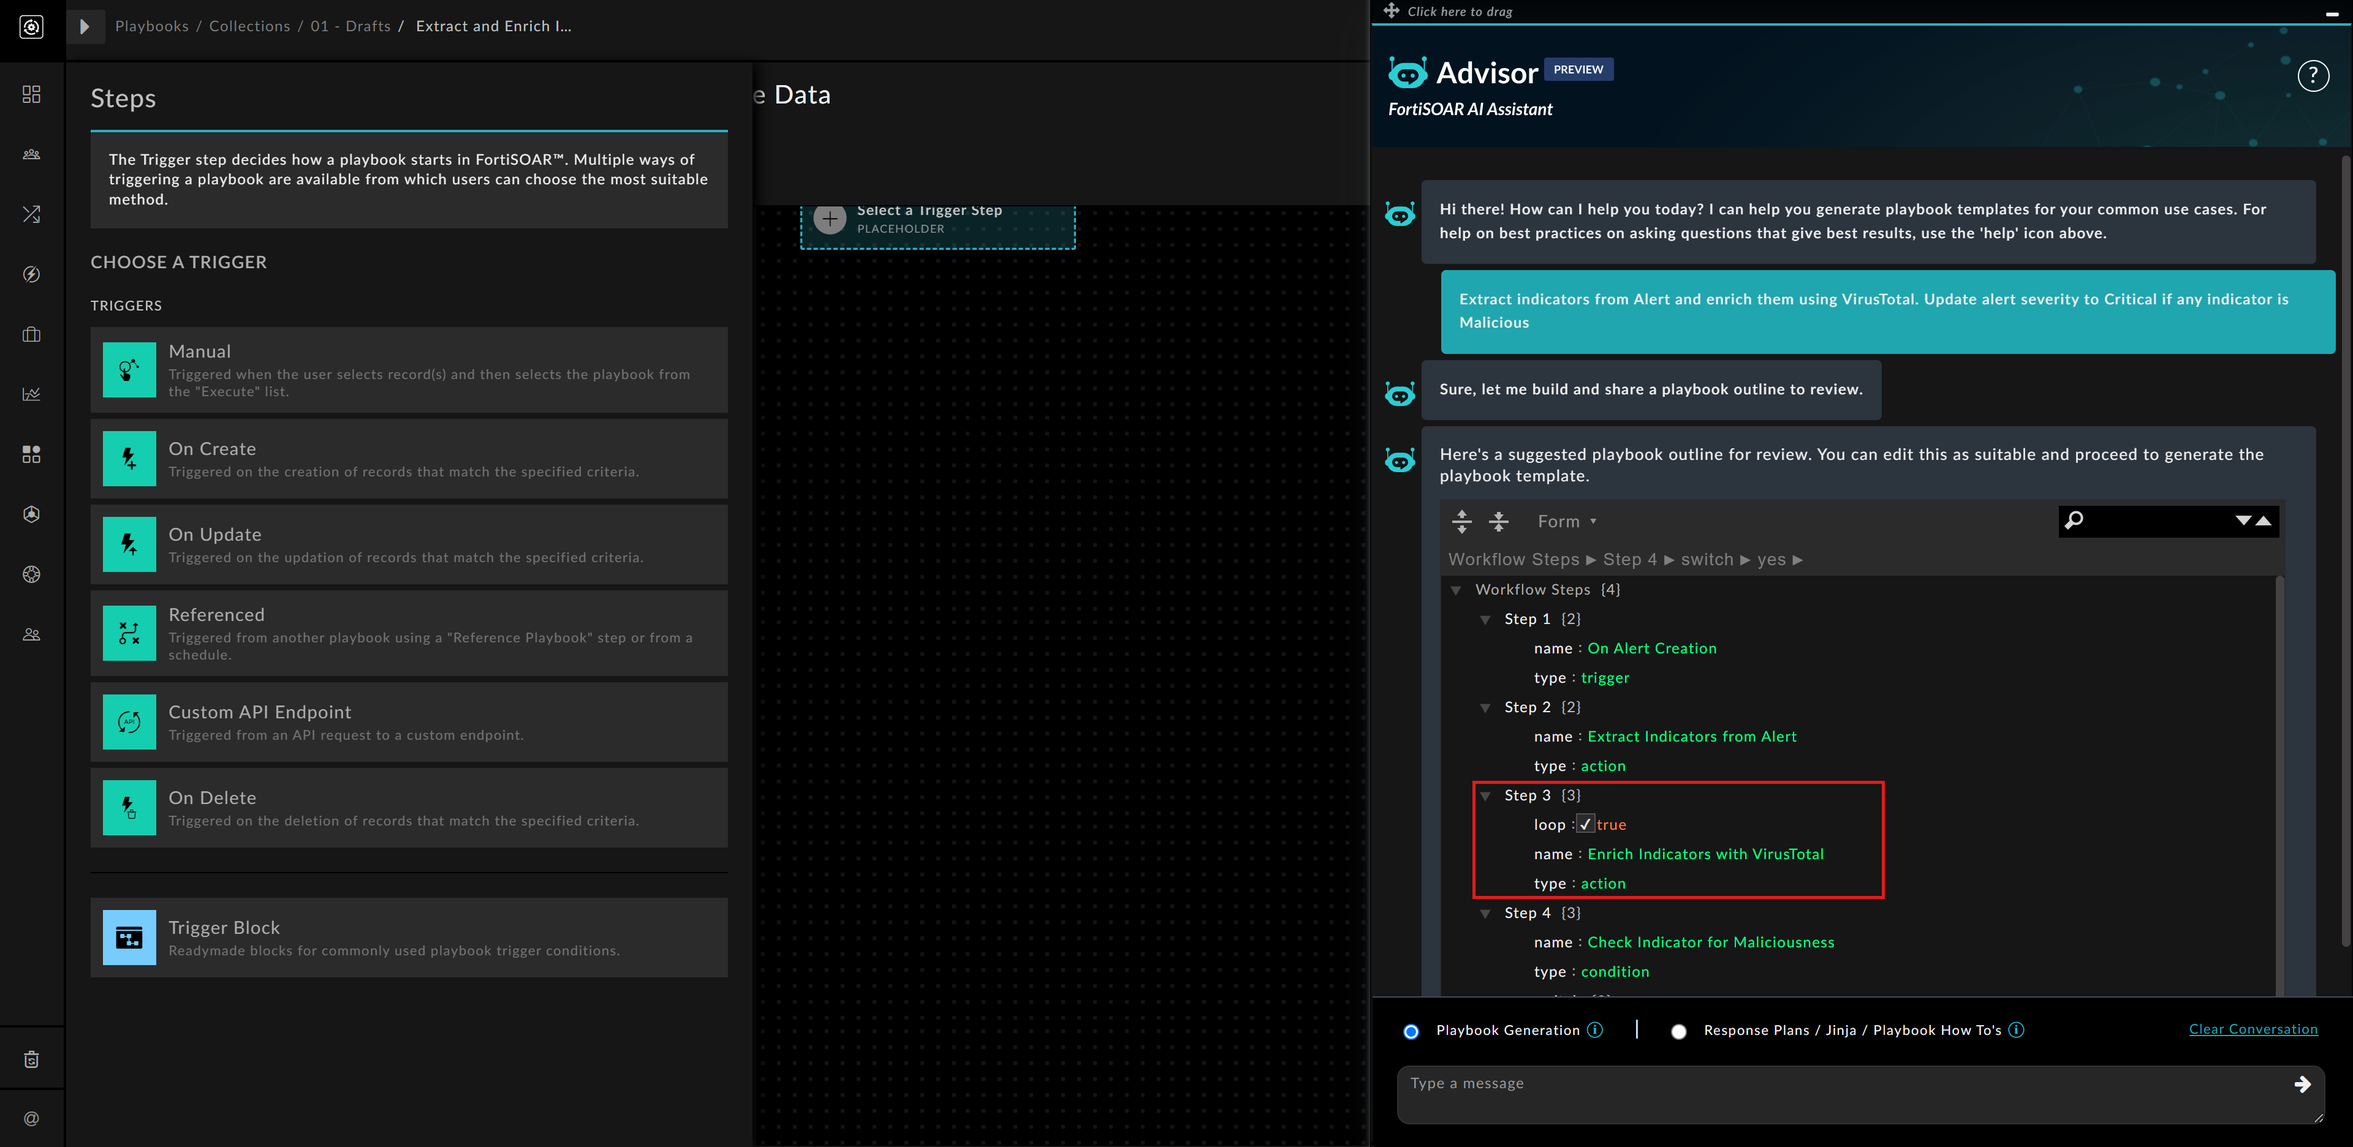
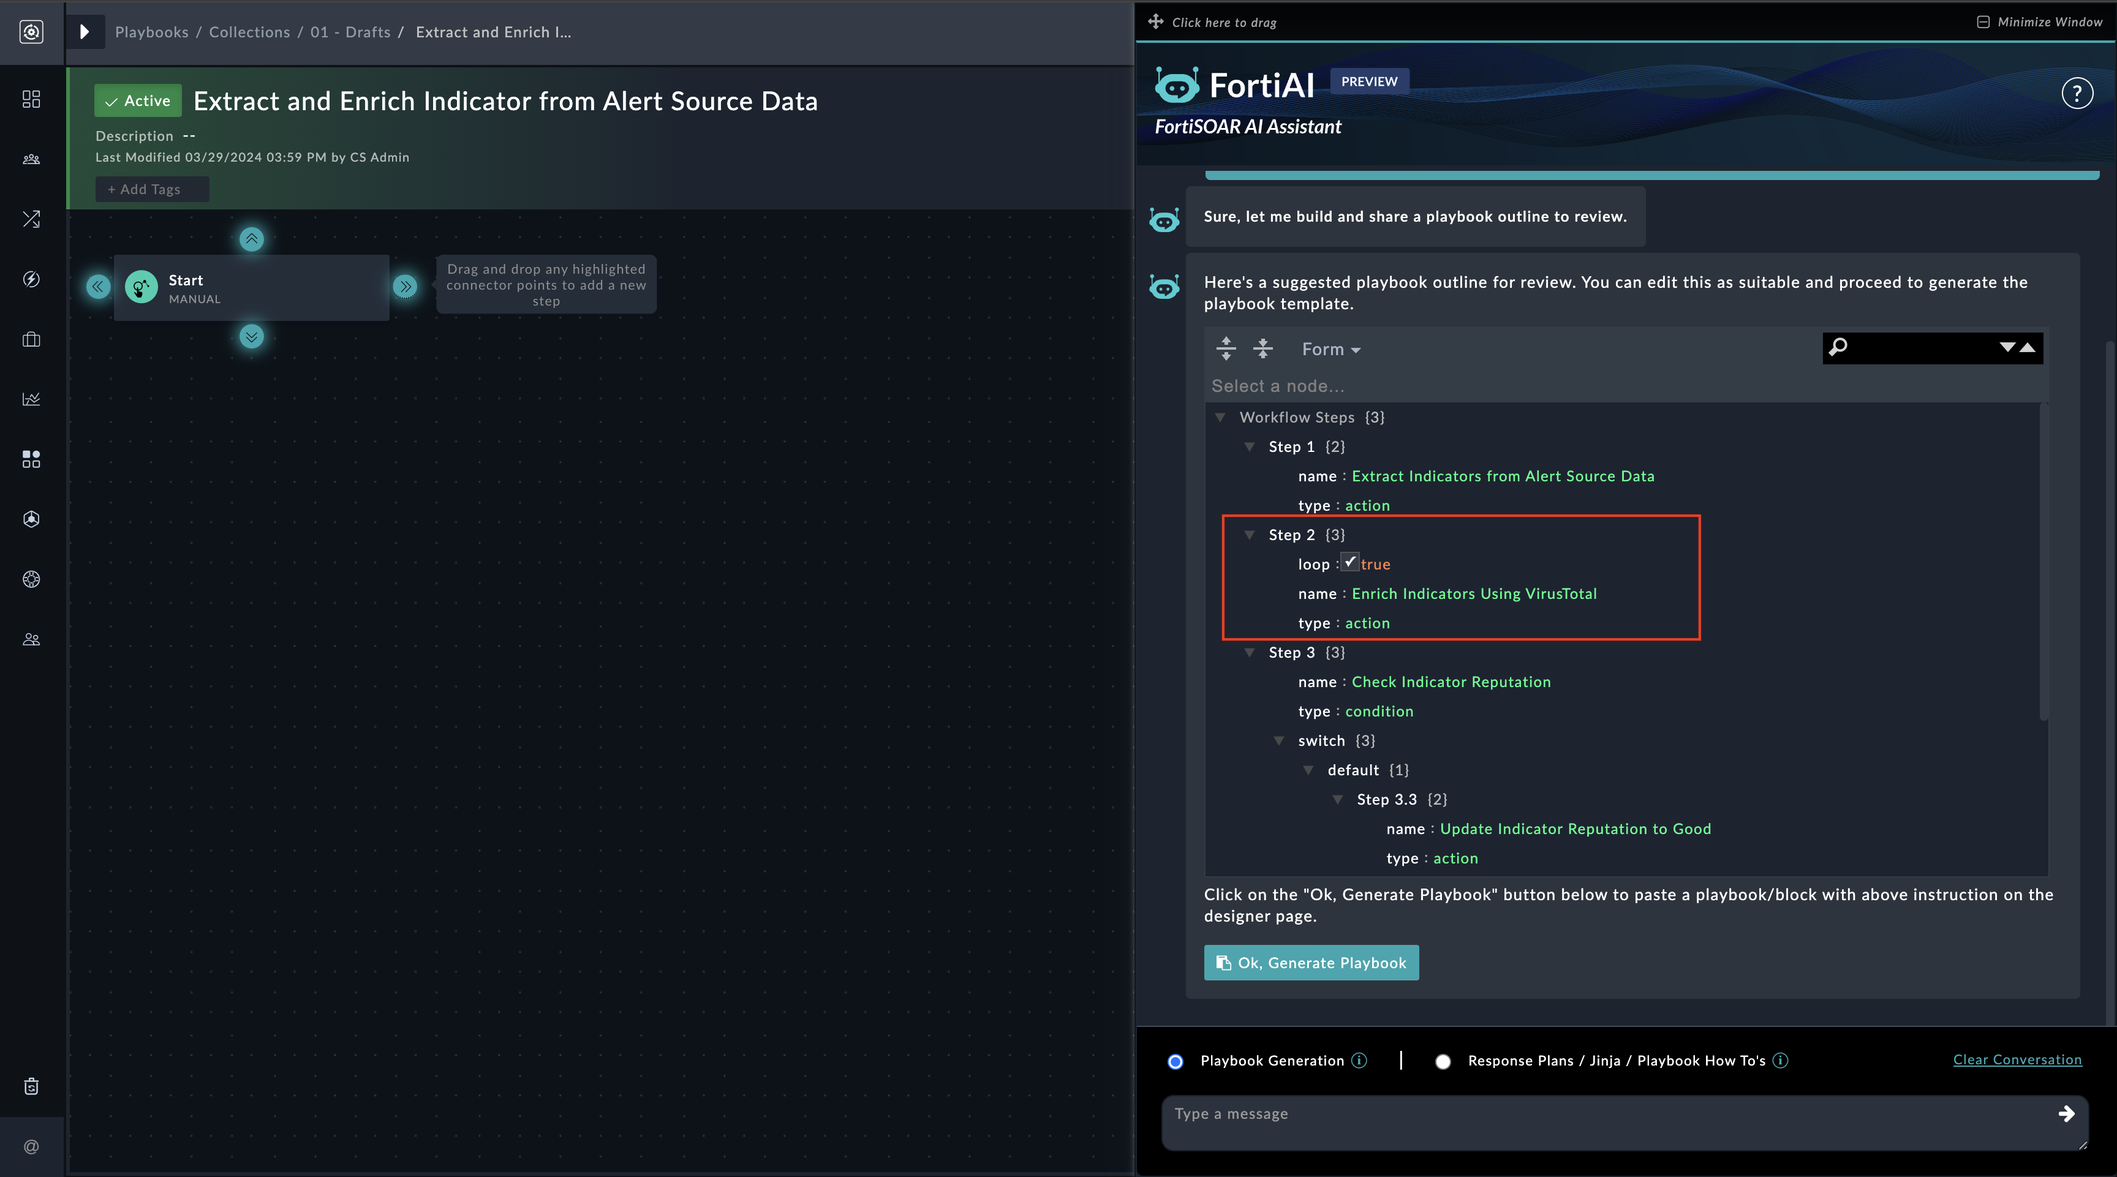
Release/2.0.0- merge with develop branch (#10)

diff --git a/docs/usage.md b/docs/usage.md
@@ -3,65 +3,93 @@
 
 # Usage
 
-The AI Assistant Widget adds the 'Advisor' bot to both the list view and detail view of modules in FortiSOAR, as well as in the playbook designer. 'Advisor' is a valuable addition to your security toolkit, making playbook design more efficient and insightful. Whether you are new to security automation or a seasoned professional, 'Advisor' empowers you to create robust security playbooks that enhance your organization's cyber defenses. It also helps you in designing relevant response plans and offering contextual answers to your questions about different facets of security investigations and threat remediation, including learning about of security processes to create comprehensive response plans, obtaining details on how to develop a specific kind of playbook, etc.
+The AI Assistant Widget adds the 'FortiAI' bot to both the list view and detail view of modules in FortiSOAR, as well as in the playbook designer. 'FortiAI' is a valuable addition to your security toolkit, making playbook design more efficient and insightful. Whether you are new to security automation or a seasoned professional, 'FortiAI' empowers you to create robust security playbooks that enhance your organization's cyber defenses. It also helps you in designing relevant response plans and offering contextual answers to your questions about different facets of security investigations and threat remediation, including learning about of security processes to create comprehensive response plans, obtaining details on how to develop a specific kind of playbook, etc.
 
-Advisor operates in two distinct modes—Playbook Blocks and Conversation Mode—to provide intelligent assistance and guidance to security professionals.
+FortiAI operates in two distinct modes—Playbook Blocks and Conversation Mode—to provide intelligent assistance and guidance to security professionals.
 
-The 'Advisor' icon is visible in both the list view and detail view of modules in FortiSOAR, as well as in the playbook designer. It is located on the lower-right corner, as shown in the following image of an alert detail view:  
-![Advisor bot icon in FortiSOAR](../docs/res/ai_bot_icon.png)
+The 'FortiAI' icon is visible in both the list view and detail view of modules in FortiSOAR, as well as in the playbook designer. It is located on the lower-right corner, as shown in the following image of an alert detail view:  
+![FortiAI bot icon in FortiSOAR](../docs/res/ai_bot_icon.png)
 
-Click on the icon to open the Advisor dialog in which you can begin your interaction with the bot. You can click '**Click here to drag**' to drag the advisor anywhere in the FortiSOAR application, and clicking the minimize button minimizes that dialog back as an icon:  
-![Advisor dialog](../docs/res/ai_bot_dialog.png)
+Click on the icon to open the FortiAI bot dialog in which you can begin your interaction with the bot. You can click '**Click here to drag**' to drag the bot anywhere in the FortiSOAR application, and clicking the minimize button minimizes that dialog back as an icon:  
+![FortiAI dialog](../docs/res/ai_bot_dialog.png)
 
-To manually clear a conversation in Advisor, click the **Clear Conversation** button. Note, that Clear Conversation clears the conversation for that mode only, for example, if you are in the Conversation Mode, the conversation will be cleared for only this mode and not for the Playbook Generation mode. 
+To manually clear a conversation in bot, click the **Clear Conversation** button. Note, that Clear Conversation clears the conversation for that mode only, for example, if you are in the Conversation Mode, the conversation will be cleared for only this mode and not for the Playbook Generation mode. 
 
   >**NOTE**: When a user logs out, all conversations are automatically cleared.
 
 ## Prerequisites
 
-For Advisor to work, you must install and configure the following:
+For FortiAI to work, you must install and configure the following:
 
-- Fortinet Advisor solution pack
-
+- FortiAI solution pack
 
 ## Playbook Blocks Mode
 
-In Playbook Blocks mode, Advisor provides an innovative approach to streamline playbook creation and  management. Here's how it works:
+In Playbook Blocks mode, bot provides an innovative approach to streamline playbook creation and  management. Here's how it works:
 
 ### Playbooks Generation
 
-Users can interact with Advisor to generate playbooks based on their requirements. In the Playbook Generation mode, Advisor provides you with two options, the **Playbook Generation** option that provides you with a JSON outline for the required playbook steps, and the **Response Plans / Jinja / Playbooks How Tos** option that allows you to engage in contextual conversation with Advisor and seek information related to work plans, best practices on developing a particular type of playbook, etc. 
+Users can interact with FortiAI bot to generate playbooks based on their requirements. In the Playbook Generation mode, bot provides you with two options, the **Playbook Generation** option that provides you with a JSON outline for the required playbook steps, and the **Response Plans / Jinja / Playbooks How Tos** option that allows you to engage in contextual conversation with FortiAI and seek information related to work plans, best practices on developing a particular type of playbook, etc. 
 
-To generate playbook steps, open a playbook in the playbook designer, and you will see the **Advisor** icon on the lower-right corner. Click on the icon to open the Advisor and enter your requirements in the text box. For example, you might need to design playbook steps that extracts indicators from an Alert, enriches those indicators using VirusTotal, and if any indicator is found to be 'Malicious', then updates the severity of that alert to 'Critical'. You can use Advisor to design this playbook by selecting the **Playbook Generation** option, typing `Extract indicators from Alert and enrich them using VirusTotal. Update alert severity to Critical if any indicator is Malicious`, and then pressing **Enter**. Based on this prompt, Advisor dynamically generates a JSON template of the playbook block. This JSON format encapsulates the essential details of the playbook step, including actions, triggers, conditions, and relevant parameters:  
+To generate playbook steps, open a playbook in the playbook designer, and you will see the **FortiAI** icon on the lower-right corner. Click on the icon to open the FortiAI bot and enter your requirements in the text box. For example, you might need to design playbook steps that extracts indicators from an Alert, enriches those indicators using VirusTotal, and if any indicator is found to be 'Malicious', then updates the severity of that alert to 'Critical'. You can use bot to design this playbook by selecting the **Playbook Generation** option, typing `Extract indicators from Alert and enrich them using VirusTotal. Update alert severity to Critical if any indicator is Malicious`, and then pressing **Enter**. Based on this prompt, bot dynamically generates a JSON template of the playbook block. This JSON format encapsulates the essential details of the playbook step, including actions, triggers, conditions, and relevant parameters:  
 ![Generation of the JSON description of the playbook block](../docs/res/playbook_description.png)
 
-Advisor generates a proposed playbook outline in the JSON format. *<u>It is advisable to review and update the JSON blocks as per your requirements</u>*. For example, if you want to enrich indicators using IPStack instead of VirusTotal, you can change 'Step 3: Enrich Indicators with VirusTotal' to 'Step 3: Enrich Indicators with IPStack'.
+FortiAI generates a proposed playbook outline in the JSON format. *<u>It is advisable to review and update the JSON blocks as per your requirements</u>*. For example, if you want to enrich indicators using IPStack instead of VirusTotal, you can change 'Step 3: Enrich Indicators with VirusTotal' to 'Step 3: Enrich Indicators with IPStack'.
 
-Once you are satisfied with the JSON outline, click the **Ok, Generate Playbook** button to start the process of generating the playbook steps. Advisor takes the input JSON and uses it to start an automated process that quickly generates the corresponding playbook block. As part of the automated generation process, Advisor checks and verifies the availability of connectors used in the generated playbook block and lists any connectors that are not currently installed or available in the FortiSOAR environment. 
+Once you are satisfied with the JSON outline, click the **Ok, Generate Playbook** button to start the process of generating the playbook steps. FortiAI takes the input JSON and uses it to start an automated process that quickly generates the corresponding playbook block. As part of the automated generation process, FortiAI checks and verifies the availability of connectors used in the generated playbook block and lists any connectors that are not currently installed or available in the FortiSOAR environment. 
 
 Once the process starts for generating the playbook steps, a loader guides how much of the process is completed.  
 ![Loader guiding the process of generating playbook](../docs/res/playbook_description_reviewresults.png)
 
-Once the process is complete, the playbook block is automatically pasted into the playbook designer, where it can be reviewed and used:  
+Once the process is complete, the playbook block is automatically pasted into the playbook designer, where it can be reviewed and used:
+
+
 ![AI generated playbook blocks](../docs/res/ai_generated_block.png)
 
 You can review the generated playbook block by opening specific steps and reviewing their details:   
 ![Reviewing an AI generated playbook block](../docs/res/ai_block_reviewstep.png)
 
-In the playbook designer, you can also ask for information about best practices, jinja etc., by selecting the **Response Plans / Jinja / Playbooks How Tos** option. Advisor provides insightful responses, leveraging its extensive knowledge base to provide you with guidance, recommendations, or information related to security threats, Jinja, best practices, response plan creation, etc. For example, if you want help designing a response plan for a ransomware event, you can click the **Advisor** icon, select the **Response Plans / Jinja / Playbooks How Tos** option, and type `Can you help me with a quick response plan for a ransomware investigation?` and then pressing **Enter**:  
+In the playbook designer, you can also ask for information about best practices, jinja etc., by selecting the **Response Plans / Jinja / Playbooks How Tos** option. FortiAI provides insightful responses, leveraging its extensive knowledge base to provide you with guidance, recommendations, or information related to security threats, Jinja, best practices, response plan creation, etc. For example, if you want help designing a response plan for a ransomware event, you can click the **FortiAI** icon, select the **Response Plans / Jinja / Playbooks How Tos** option, and type `Can you help me with a quick response plan for a ransomware investigation?` and then pressing **Enter**:
+
+
 ![Response Plan example](../docs/res/conv_mode.png) 
 
-Advisor offers a set of procedures to follow when creating a response plan for a ransomware incident. You can use these steps to develop playbooks for handling such a scenario.
+FortiAI offers a set of procedures to follow when creating a response plan for a ransomware incident. You can use these steps to develop playbooks for handling such a scenario.
 
 ## Conversation Mode:
 
-In Conversation Mode, Advisor takes on a more interactive role, offering valuable assistance through natural language conversations around threats, response procedures, etc., in the case management views such as while investigating an alert. For example, if you are in context of a BFA alert, and you want to know more about that malware, click the **Advisor** icon in the alert detail view and in the **Ask a question** text box, type `Can you provide me with more information about the DarkGate Malware?` and then press **Enter**:   
+In Conversation Mode, FortiAI bot takes on a more interactive role, offering valuable assistance through natural language conversations around threats, response procedures, etc., in the case management views such as while investigating an alert. For example, if you are in context of a BFA alert, and you want to know more about that malware, click the **FortiAI** icon in the alert detail view and in the **Ask a question** text box, type `Can you provide me with more information about the DarkGate Malware?` and then press **Enter**:   
 
-![Asking a question to Advisor](../docs/res/conversationMode.png) 
+![Asking a question to FortiAI](../docs/res/conversationMode.png) 
 
-Advisor provides a summary about the malware and its associated threat groups.
+FortiAI bot provides a summary about the malware and its associated threat groups.
 
-For additional use cases and tips and techniques to help you craft better prompts for receiving the best possible responses from Advisor, see the [Fortinet Advisor solution pack documentation](). 
+### Module Specific Question 
+
+- Open any of the alerts and click on the bot icon. A few pre-defined questions will appear.
+
+  ![Module Question](./res/ai_bot_dialog.png)
+
+- Click on any of the questions, and a dialog box will appear to Review and Edit the data that will be sent to the LLM like OpenAI.
+  >**NOTE**: All sensitive and confidential information will be masked automatically by a bot. Please review it carefully and edit before submitting it to LLM.
+  
+
+  ![Dialog Box](./res/alert_summary_edit_prompt.png)
+
+- Upon clicking 'Submit & Get AI's Response' button the question prompt and module record data will be submitted to the LLM like OpenAI and user will get a response as shown below;
+
+  ![Dialog Box](./res/summary_response.png)
+
+- In an another example, click on other question like 'Generate Investigation Report' as shown below;
+
+  ![Dialog Box](./res/investigation_report_edit_prompt.png)
+
+- And user will get a response as shown below;
+
+  ![Dialog Box](./res/report_response.png)
+
+
+For additional use cases and tips and techniques to help you craft better prompts for receiving the best possible responses from FortiAI, see the [FortiAI solution pack documentation](). 
 
 | [Installation](./setup.md#installation) | [Configuration](./setup.md#configuration) |
 | --------------------------------------- | ---------------------------------------- |

diff --git a/README.md b/README.md
@@ -1,7 +1,6 @@
 ## Release Information
 
-- **Version**: 1.0.0![Preview icon](./docs/res/icon-preview.svg)   
-  **NOTE**: Preview releases are a beta release. This means that release is intended to get feedback and might not be best suited for production level deployments. Feature availability and support for preview releases will continue to improve as the solution/feature matures.
+- **Version**: 2.0.0![Preview icon](./docs/res/icon-preview.svg)
 
 - **Certified**: Yes
 
@@ -11,11 +10,20 @@
 
 - **Applicable**: List View and Detail View of modules, and Playbook Designer
 
-  >**NOTE**: The AI Assistant Widget must be used in conjunction with the 'Fortinet Advisor' solution pack to be of any use. For more information, see the [Fortinet Advisor solution pack documentation](https://github.com/fortinet-fortisoar/solution-pack-fortinet-advisor/blob/release/1.0.0/README.md).
+- [Release Notes](./release_notes.md)
+
+<table>
+    <th>NOTE</th>
+    <td>This is a preview version of 'FortiAI' designed to demonstrate the potential of Generative AI in FortiSOAR. Preview releases are a beta release. This means that release is intended to get feedback and might not be best suited for production level deployments. Feature availability and support for preview releases will continue to improve as the solution/feature matures.</td>
+</table>
+
+**NOTE**: The AI Assistant Widget must be used in conjunction with the 'FortiAI' solution pack to be of any use. For more information, see the [FortiAI solution pack documentation](https://github.com/fortinet-fortisoar/solution-pack-fortinet-advisor/blob/release/2.0.0/README.md).
 
 ## Overview
 
-The FortiSOAR AI Assistant Widget adds the 'Advisor' bot to both the list view and detail view of modules in FortiSOAR, as well as in the playbook designer. The 'Advisor' bot is a powerful tool designed to provide contextual answers to your questions regarding security threats, response processes, work plans, Jinja expressions, and more! Additionally, it improves user experience and expedites the playbook creation and management process within the FortiSOAR platform. This multifunctional bot offers security professionals intelligent support and guidance in two distinct modes—Playbook Blocks and Conversation Mode.
+The FortiSOAR AI Assistant Widget adds the 'FortiAI' bot to both the list view and detail view of modules in FortiSOAR, as well as in the playbook designer. The 'FortiAI' bot is a powerful tool designed to provide contextual answers to your questions regarding security threats, response processes, work plans, Jinja expressions, and more! Additionally, it improves user experience and expedites the playbook creation and management process within the FortiSOAR platform. This multifunctional bot offers security professionals intelligent support and guidance in two distinct modes—Playbook Blocks and Conversation Mode.
+
+![AI Assistant in FortiSOAR](/docs/res/ai_bot_dialog.png)
 
 | [Installation](./docs/setup.md#installation) | [Configuration](./docs/setup.md#configuration) | [Usage](./docs/usage.md) | 
 |--------------------------------------------|----------------------------------------------|------------------------|

diff --git a/release_notes.md b/release_notes.md
@@ -1,0 +1,21 @@
+# What's New
+
+## Introducing Top SOC Questions
+
+Edit or disable existing prompts or add new prompts based on your security posture.
+
+- You can now customize your interactions with the LLM by providing specific details and guidelines for your chats. Define your SOC questions to customize your LLM interactions.
+
+- Specific modules now have pre-defined questions. For example, under the **Alerts** module, questions include:
+
+    - Get Alert Summary
+    - Generate Response Recommendations
+    - Generate Investigation Report
+    - MITRE ATT&CK Insight
+    
+    Similarly, for the **Incident** module, questions may be:
+    
+    - Get Incident Summary
+    - Generate Response Recommendations
+    - Generate Investigation Report
+    - MITRE ATT&CK Insight
